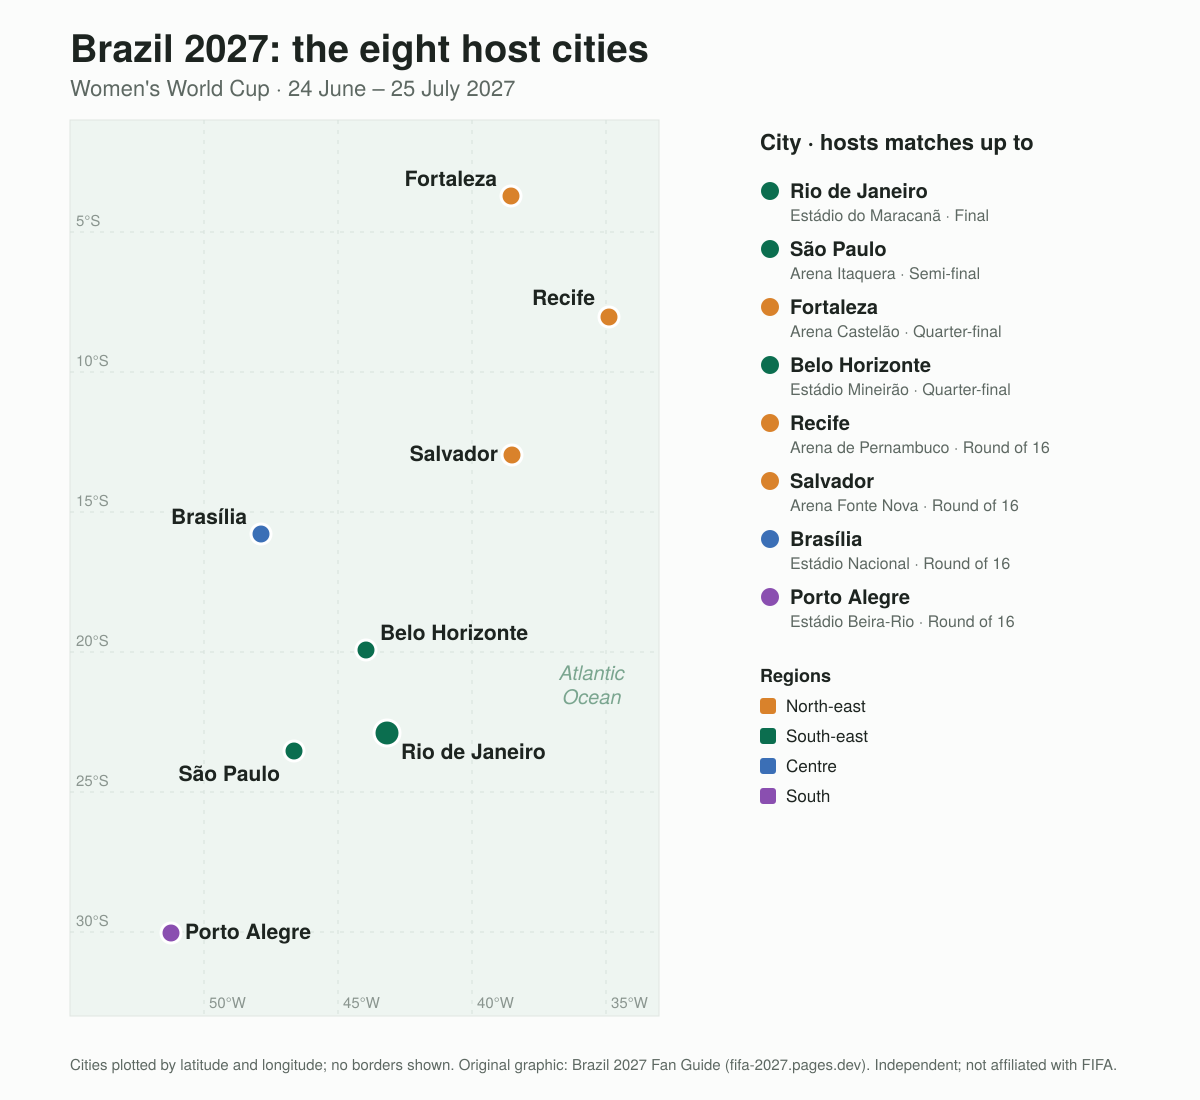
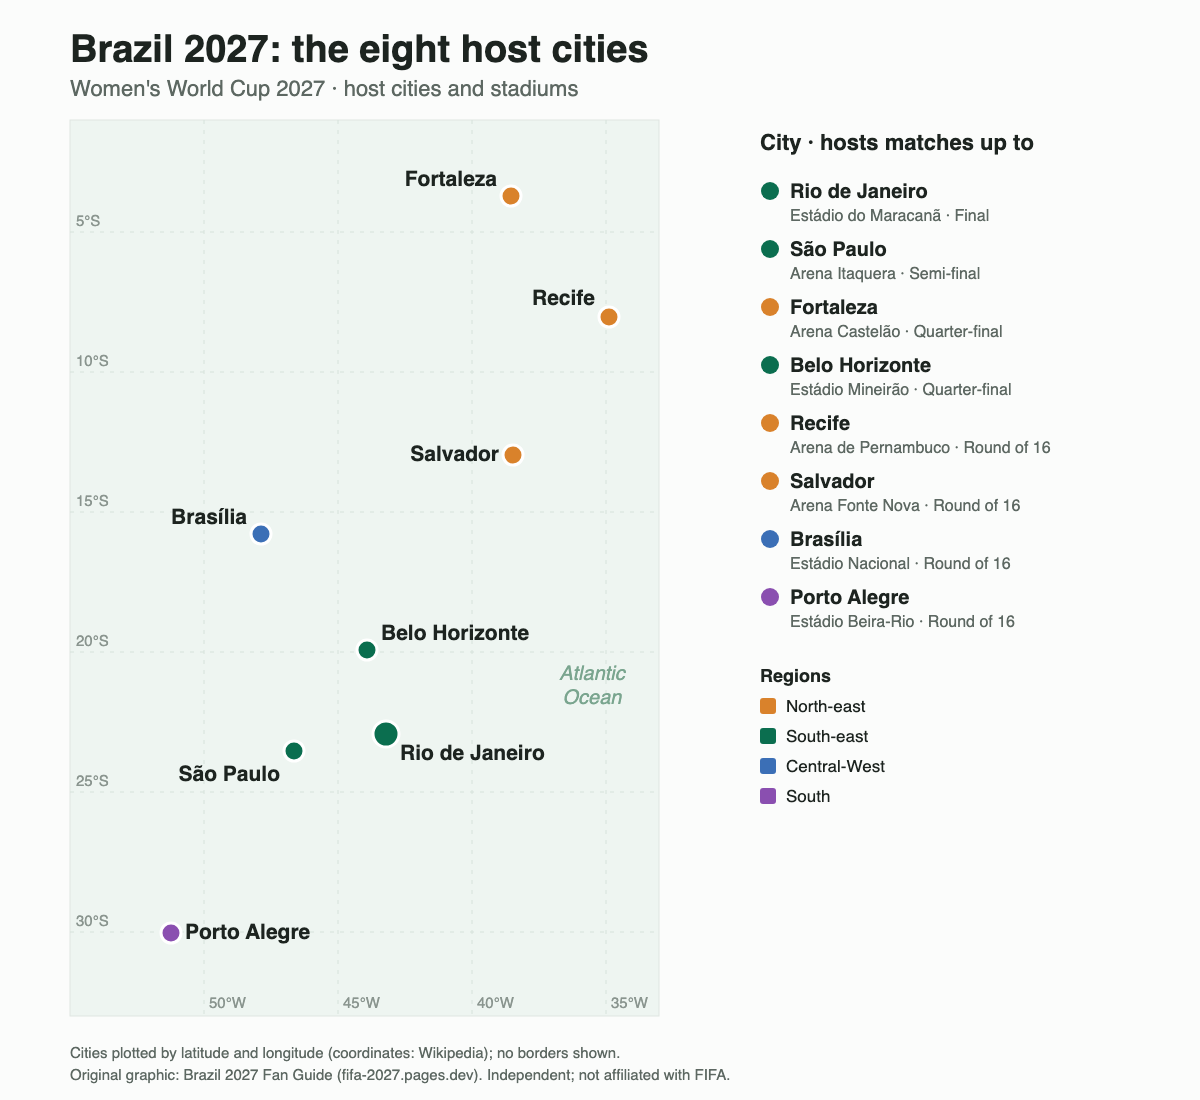
drafts: host-cities-map verified (VERIFY resolved), map re-rendered

diff --git a/drafts/host-cities-map.md b/drafts/host-cities-map.md
@@ -16,12 +16,11 @@ target_query: women's world cup 2027 host cities map
 source_of_idea: image-demand
 experiment:
 ---
-<!-- VERIFY: draft by the agent on 2026-11-25. A person must check every fact below before this moves to content/. -->
-The 2027 Women's World Cup is spread across eight Brazilian cities, from Fortaleza near the equator to Porto Alegre in the far south. The map shows where each one sits, coloured by region.
+The 2027 Women's World Cup is spread across eight Brazilian cities, from Fortaleza, less than 4° south of the equator, to Porto Alegre in the far south. The map shows where each one sits, coloured by region.
 
 <figure>
 <img src="/img/host-cities-map.png" alt="Map of Brazil's eight 2027 Women's World Cup host cities, from Fortaleza in the north-east to Porto Alegre in the south" width="1200" height="1100" loading="lazy" style="max-width:100%;height:auto" data-text-equivalent="#host-cities-table">
-<figcaption>The eight host cities, plotted by latitude and longitude. Original graphic by Brazil 2027 Fan Guide.</figcaption>
+<figcaption>The eight host cities, plotted by latitude and longitude (city coordinates from Wikipedia). Original graphic by Brazil 2027 Fan Guide.</figcaption>
 </figure>
 
 ## Host cities at a glance {#host-cities-table}
@@ -32,20 +31,18 @@ The 2027 Women's World Cup is spread across eight Brazilian cities, from Fortale
 | [São Paulo](/cities/sao-paulo/) | Arena Itaquera | South-east | Semi-final, third-place match | about 360 km |
 | [Belo Horizonte](/cities/belo-horizonte/) | Estádio Mineirão | South-east | Quarter-final | about 340 km |
 | [Fortaleza](/cities/fortaleza/) | Arena Castelão | North-east | Quarter-final | about 2,190 km |
-| [Brasília](/cities/brasilia/) | Estádio Nacional | Centre | Round of 16 | about 930 km |
+| [Brasília](/cities/brasilia/) | Estádio Nacional | Central-West | Round of 16 | about 930 km |
 | [Salvador](/cities/salvador/) | Arena Fonte Nova | North-east | Round of 16 | about 1,210 km |
-| [Recife](/cities/recife/) | Arena de Pernambuco | North-east | Round of 16 | about 1,870 km |
-| [Porto Alegre](/cities/porto-alegre/) | Estádio Beira-Rio | South | Round of 16 | about 1,130 km |
-<!-- VERIFY: distances are great-circle distances computed from city-centre coordinates (Rio -22.9068,-43.1729; São Paulo -23.5505,-46.6333; Belo Horizonte -19.9167,-43.9345; Brasília -15.7939,-47.8828; Fortaleza -3.7319,-38.5267; Recife -8.0476,-34.8770; Salvador -12.9777,-38.5016; Porto Alegre -30.0346,-51.2177). Check the coordinates against a public source; road and flight distances are longer. -->
+| [Recife](/cities/recife/) | Arena de Pernambuco | North-east | Round of 16 | about 1,880 km |
+| [Porto Alegre](/cities/porto-alegre/) | Estádio Beira-Rio | South | Round of 16 | about 1,120 km |
 
-Straight-line distances are measured between city centres. Road and flight distances are longer.
+Straight-line (great-circle) distances are measured between the city coordinates listed on Wikipedia, rounded to the nearest 10 km. Road and flight distances are longer.
 
 ## Reading the map
 
-- **The south-east cluster** of Rio de Janeiro, São Paulo and Belo Horizonte is the closest group, and the only one where travelling by road between cities is realistic.
+- **The south-east cluster** of Rio de Janeiro, São Paulo and Belo Horizonte is the closest group: Rio is about 360 km from São Paulo and about 340 km from Belo Horizonte, and São Paulo and Belo Horizonte are about 490 km apart.
 - **The north-east** cities of Fortaleza, Recife and Salvador lie along the Atlantic coast, more than 1,000 km from Rio.
-- **Brasília** sits on the central plateau, and **Porto Alegre** is far to the south, closer to Uruguay than to Rio.
-<!-- VERIFY: "closer to Uruguay than to Rio" — check before publishing, or remove -->
+- **Brasília** is inland, in the Brazilian Highlands of the Central-West region. **Porto Alegre** is far to the south: about 350 km in a straight line from Jaguarão on the Uruguayan border, against about 1,120 km from Rio.
 
 For travel between regions, see [getting between host cities](/travel/getting-between-cities/). Each city also has its own guide, linked in the table.
 
@@ -53,3 +50,4 @@ For travel between regions, see [getting between host cities](/travel/getting-be
 
 - FIFA: [host cities and stadiums](https://inside.fifa.com/en/news/eight-vibrant-host-cities-to-dazzle-the-world-at-fifa-womens-world-cup-brazil-2027) (checked 2026-11-25)
 - FIFA: [match schedule announcement](https://inside.fifa.com/en/news/womens-world-cup-2027-brazil-maracana-match-schedule-unveiled) (checked 2026-11-25)
+- Wikipedia: city coordinates and regions from the articles on [Rio de Janeiro](https://en.wikipedia.org/wiki/Rio_de_Janeiro), [São Paulo](https://en.wikipedia.org/wiki/S%C3%A3o_Paulo), [Belo Horizonte](https://en.wikipedia.org/wiki/Belo_Horizonte), [Brasília](https://en.wikipedia.org/wiki/Bras%C3%ADlia), [Fortaleza](https://en.wikipedia.org/wiki/Fortaleza), [Recife](https://en.wikipedia.org/wiki/Recife), [Salvador](https://en.wikipedia.org/wiki/Salvador,_Bahia), [Porto Alegre](https://en.wikipedia.org/wiki/Porto_Alegre) and [Jaguarão](https://en.wikipedia.org/wiki/Jaguar%C3%A3o) (checked 2026-11-25)
